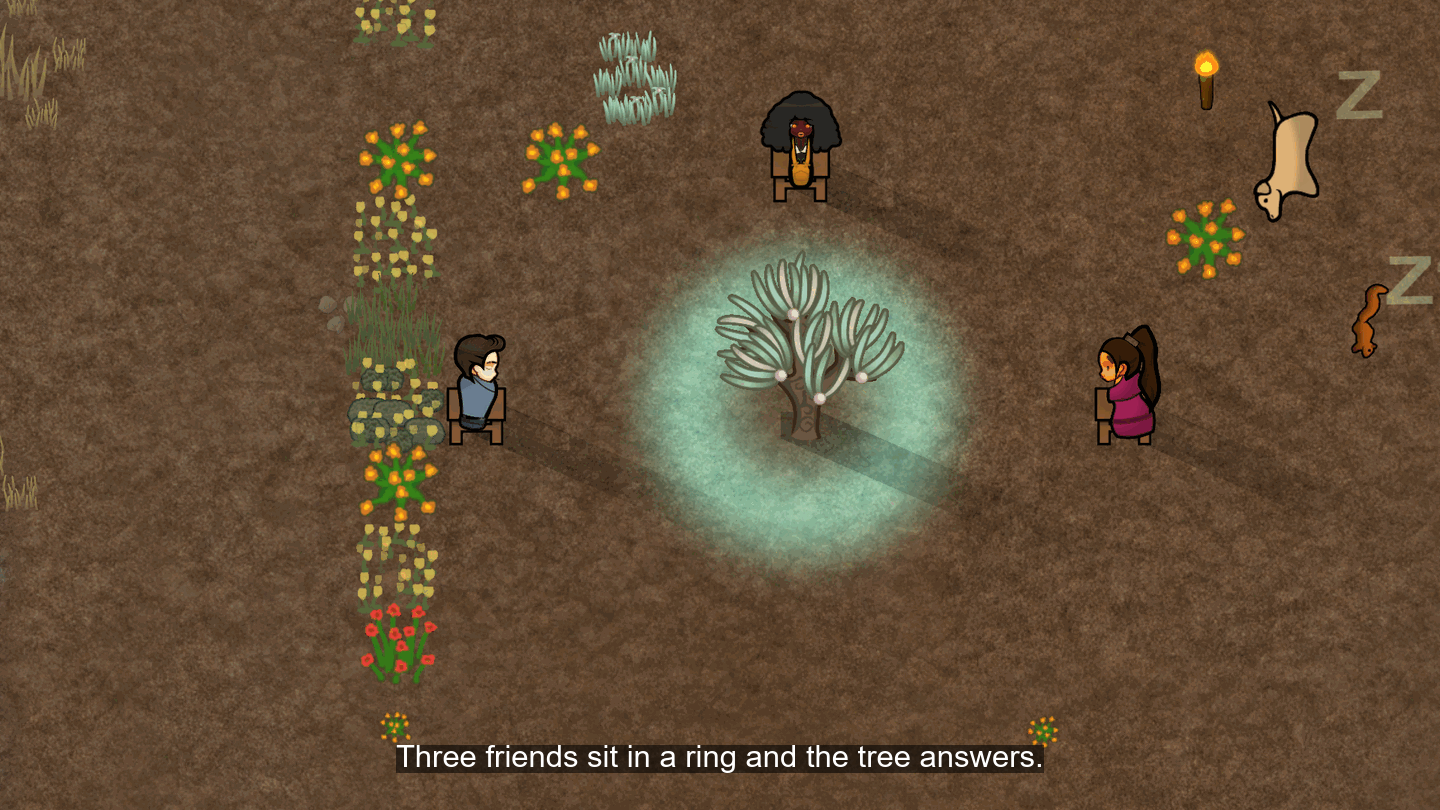
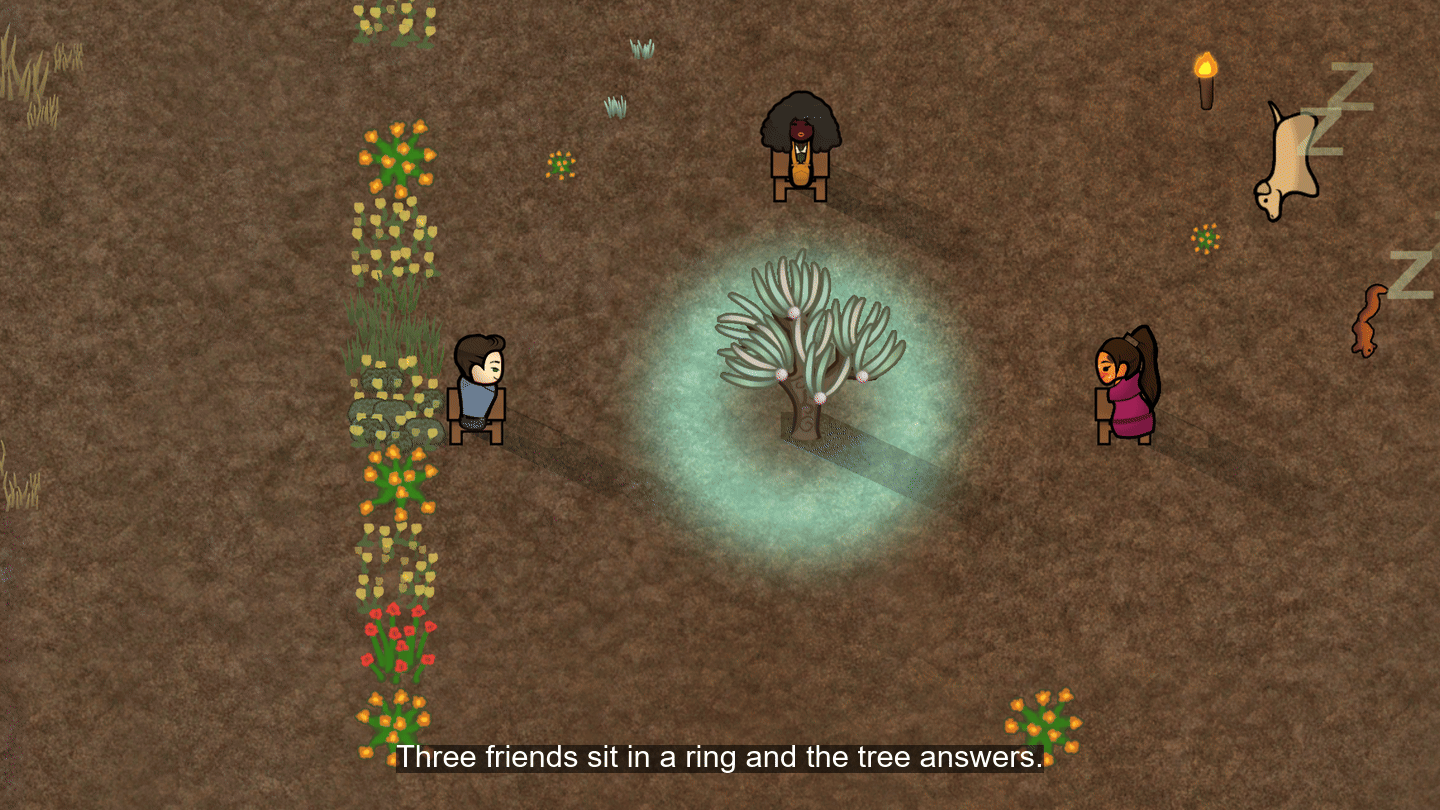
Gallery: shot 4 retaken with VEFA and VTE eyes (ticket 2a88), subtitle burned again

diff --git a/STATUS.md b/STATUS.md
@@ -27,7 +27,8 @@ remaining:
  - open 2026-11-22 (owner, in chat: "1, 5, 6 non corrigés (ajouter VEFA et VTE)"): shots 1, 5, 6 are REDO on eyes, owner review only (not a validation); 1 and 6 are no longer candidates; question sent to PiT (is `enableExperimentalEyeTextures` true in the seed, which EyeballTypeDef and LidTypeDef give the VEFA and VTE eyes, steps for Nelim, Soren, Miel); on the answer edit scenes A, E, F, refile one ticket, replace finals only if the eyes show, redo subtitles; 4-noon not named by the owner
  - open 2026-11-22 (PiT answer, ticket 2c19 filed on label "gallery A E F VEFA and VTE eyes"): seed `Mod_3753978140_MovingVanillaEyesMod.xml` now sets `enableExperimentalEyeTextures` True (its patches add the VEFA eyes only then); scenes A, E, F set `eyeballs are` (EyeNormal; Miel EyeSmall, EyeThin/Empathetic dropped) and `lids are` (LidCheerful Nelim and Miel, LidAlmond Soren) then log `the face parts of` each pawn: a texture path `Things/Pawn/VanillaExperimental/` proves VEFA applied; VTE adds lids and mouths only, no eyeball; F now Nelim seated in profile at (199, 152) facing West (back view hid the eyes), header updated; on RUN_DONE: read `[face-parts]` in Player.log, open the three captures, replace 1, 5, 6 only if the eyes show and no Log.Error, redo subtitles, delete the run folder
   - done 2026-11-22 (ticket 2c19 GREEN 3 of 3, evidence Tests/Pickle/Inbox/gallery-eyes5, kept until the finals are decided): `[face-parts]` proves VEFA applied (`Things/Pawn/VanillaExperimental/Eyes/Normal`, Lids Cheerful), no Log.Error from the mods (only FMOD clip noise); captures: A Nelim front, eyes closed with lashes, smile; E Nelim, Soren, Miel eyes closed with lashes; F Nelim profile, eyes closed; the listening pose shuts the eyes, so no open eye shows but the VEFA lids are drawn; DECIDED by the session (owner: "c'est toi qui décides"): the 2c19 takes replace finals 1, 5, 6 (VEFA and VTE lids drawn, Soren shirt kept in 5); clean originals 1440 x 810 truecolor PNG in `Art/Gallery-clean/` (256-colour quantization shifted the colours, so not used), subtitles burned again with the same lines, each under 2 MB, `Art/Gallery/` 7.76 MB; run folder deleted; open: owner review of the whole gallery before mountPreview, `gallery_validated_sha` absent
-  - open 2026-11-23 (owner, in chat, about 4-noon: "les yeux, on voit que VEFA/VTE n'est pas chargé"): cause: the final `4-noon` is the ticket 8fd8 take, played before VEFA and VTE were in the gallery map, so Soren and Miel eyes are the old look; not a head-type problem; scene B (never replayed since the eyes, Nelim face steps added) refiled alone as ticket on label "gallery B noon VEFA and VTE eyes"; on RUN_DONE read `[face-parts]` (VEFA path `Things/Pawn/VanillaExperimental/`), open the capture, replace 4 only if eyes show and no animal is cut at the frame edge (the af85 B take cut Shogun, squirrel and Z), redo clean original and subtitle, delete the run folder
+  - done 2026-11-23 (ticket 2a88 GREEN 1 of 1, scene B, run folder deleted, session verdict): `[face-parts]` proves VEFA on Soren (EyeNormal, LidAlmond) and Miel (EyeSmall, LidCheerful) and Nelim, no Log.Error from the mods (FMOD clip noise only); capture opened: Soren green eye open, Miel face drawn, Shogun and squirrel inside the frame (only the squirrel Z touches the right edge); final `4-noon` replaced by the 2a88 take (clean original 1440 x 810 truecolor in `Art/Gallery-clean/`, subtitle burned with the same line, final quantized to 256 colours to keep `Art/Gallery/` under 8 MB: 7.64 MB); all four finals 1, 4, 5, 6 now carry the VEFA and VTE look; open: owner review of the whole gallery before mountPreview (`gallery_validated_sha` absent), then the stage move through replay-audit
+  - superseded 2026-11-23 (by the 2a88 line above) (owner, in chat, about 4-noon: "les yeux, on voit que VEFA/VTE n'est pas chargé"): cause: the final `4-noon` is the ticket 8fd8 take, played before VEFA and VTE were in the gallery map, so Soren and Miel eyes are the old look; not a head-type problem; scene B (never replayed since the eyes, Nelim face steps added) refiled alone as ticket on label "gallery B noon VEFA and VTE eyes"; on RUN_DONE read `[face-parts]` (VEFA path `Things/Pawn/VanillaExperimental/`), open the capture, replace 4 only if eyes show and no animal is cut at the frame edge (the af85 B take cut Shogun, squirrel and Z), redo clean original and subtitle, delete the run folder
   - done 2026-11-22 (ticket ffc3 GREEN 3 of 3, run folder deleted, session verdict): Nelim face fixed (SkinNormal, BrowNormal, MouthLipsSmirk in `[face-parts]`, no Bandaid); finals 1, 5, 6 replaced by the ffc3 takes (clean originals 1440 x 810 truecolor, subtitles burned, `Art/Gallery/` under 8 MB); in 1 the Highpony fringe still hides the brows from the front (canon hair, not changed), in 5 and 6 her profile shows brow, open eye and blush; `[face-parts]` proves VEFA eyes and lids on Soren (EyeNormal, LidAlmond, HeadSquare) and Miel (EyeSmall, LidCheerful), so the parts ARE drawn on the VTW heads (no BiB gene needed); 4-noon stays REDO by owner word, cause not named: what looks wrong in 4 is asked of the owner; open: 4, owner validation of the whole gallery
   - superseded 2026-11-22 (owner, in chat: "grimace de Nelim en 1, pas de sourcils"; cause read in the 2c19 `[face-parts]`: scene A had no face step for Nelim, so SkinBandaid (orange patch on the cheek), AKN_BrowCourageous (thin, under the fringe) and MouthSmile came from the save; E and F the same with SkinNormal and AKN_MouthCourageous): 1, 5, 6 are REDO on Nelim's face; scenes A, B, E, F now set `face skin is "SkinNormal"`, `brows are "BrowNormal"`, `mouth is "MouthLipsSmirk"` (her NSB canon) before the expression; ticket ffc3 filed (label "gallery A E F Nelim face", evidence Tests/Pickle/Inbox/gallery-face6); on RUN_DONE: read `[face-parts]`, open the three captures, replace finals 1, 5, 6 only if the face reads well (brows visible, no Bandaid), redo the clean originals and subtitles, delete the run folder; the verdict "four candidates" below is withdrawn for 1, 5, 6 until then
   - open 2026-11-22 (owner, in chat: shot 4 still KO for the same reason, wrong face type, "mettre BiB pour gène VTE/VEFA ?"): 4-noon is REDO on Soren and Miel faces (heads Male_AverageWide, Female_AverageWide); owner approves a BiB gene on them as a try (express validation of the colonist change); PiT answered (read from files, not played): a BiB gene does NOT make VTE or VEFA draw (BiB has BiB_BodyVanilla and BiB_BodyWdi, body textures only, plus four face-pack genes, none for VTE or VEFA; BiB is not in `wsl-deps.gallery.map`); no head-type filter found in VTE or VEFA defs, so "wrong face type" is unproven; prove first with `[face-parts]` of Soren and Miel (ticket ffc3 scene E logs both; VEFA path starts `Things/Pawn/VanillaExperimental/`); if the parts are drawn, the problem is placement or look on the VTW head; steps to try after: `eyeballs are "EyeNormal"`, `lids are "LidCheerful"`, `face head shape is "HeadSquare"` (Soren) or `"HeadPointy"` or `"Beauty2"` (Miel), `face is held neutral`; changing the game head type has no step (TM request); on ffc3 RUN_DONE read the E logs, then edit B (and E), refile, replace 4 only if the faces read well
@@ -45,8 +46,8 @@ remaining:
   - unverified: user report 2026-10-08 (Markizo, Workshop): idle colonists did not visit an anima tree replanted in a gravship room; cause found (the giver skipped roofed trees), fixed in 1.0.3 (v1.0.3), reporter told on the Workshop page 2026-10-10 (stated by the owner), issue 1 closed; reporter confirmed on the Workshop page 2026-10-11 ("now it works just fine", relayed by the owner); his room being roofed stays unverified
   - unverified: after the 1.0.3 upload (2026-10-10): the public page re-read, description updated (DALL-E and the Replantable thanks show), four gallery slots shown; the content of images 1 to 3 on the page not compared with Art/Gallery; Markizo told and the Replantable thank-you posted (stated by the owner, 2026-10-10); non-regression English d3e2 green (27 of 37 passed, 0 failed, 10 skipped by @requires), French 5a3a green (27 of 37 passed, 0 failed), Phytokin dc8f stalled after 11 green (exit 3, a save load hung), replayed as 3926
 session:      local_f0c91329-9f7d-466a-a59d-00d4fb78d1f2
-updated:      2026-11-22, shootGallery[1.1.0] (replay: first open 9.a, B redo awaiting PiT answer on shirt and Paon)
-protocols_read_sha: bf98fb75fbf9176ef5d4d97359edaf48c12cd8a1
+updated:      2026-11-23, shootGallery[1.1.0] (4-noon replaced by ticket 2a88, VEFA and VTE eyes; awaiting owner review of the whole gallery)
+protocols_read_sha: 96ca113d0a938b49075e84e8cefbedcb4fdf45da
 ---
 
 # Anima Song — status
